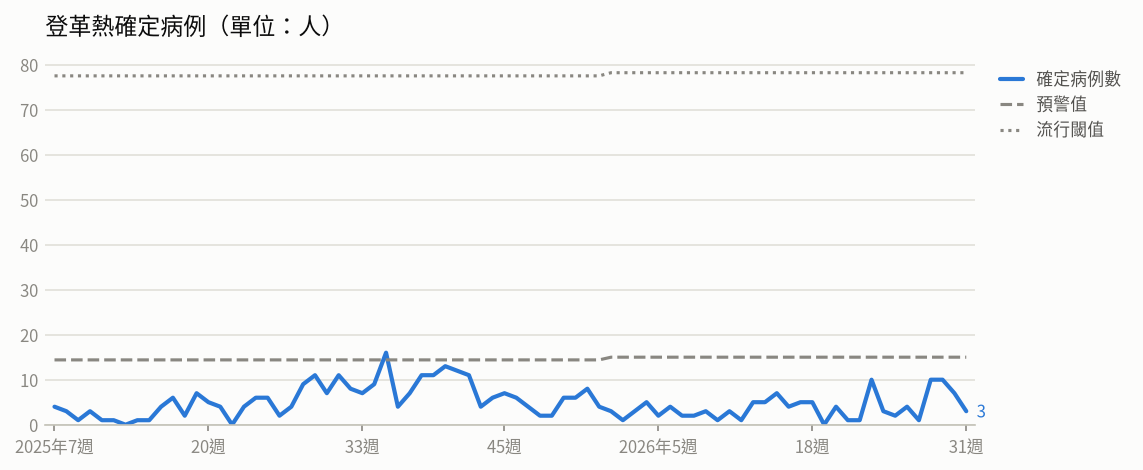
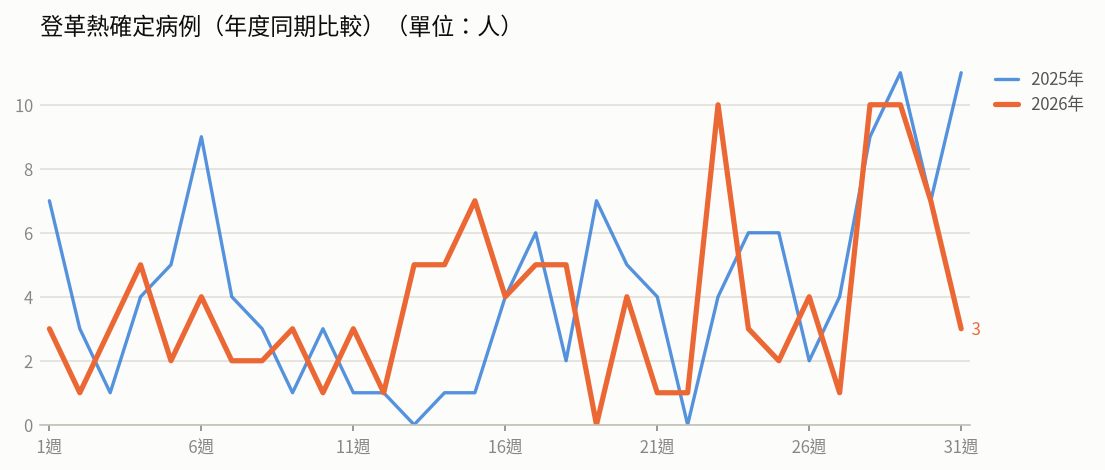
chore: monitor charts preview

diff --git a/reports/preview.md b/reports/preview.md
@@ -61,9 +61,9 @@
 
 ### 登革熱
 
-![登革熱確定病例 趨勢圖](assets/preview/5-1.png)
+![登革熱確定病例（年度同期比較） 趨勢圖](assets/preview/5-1.png)
 
-- **登革熱確定病例**（2026年第30週）：共 7人，較前一週 ↓ -3（-30%）
+- **登革熱確定病例（年度同期比較）**（2026年第30週）：7人，2025年同期 7人
   - 統計摘要：上週累計數 7、今年累計數 117、去年總數 293、今年累計死亡數 0
 
 
